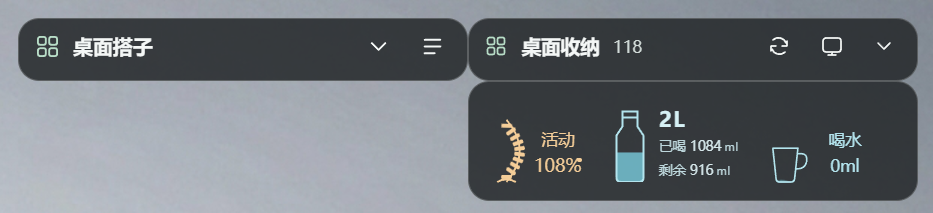
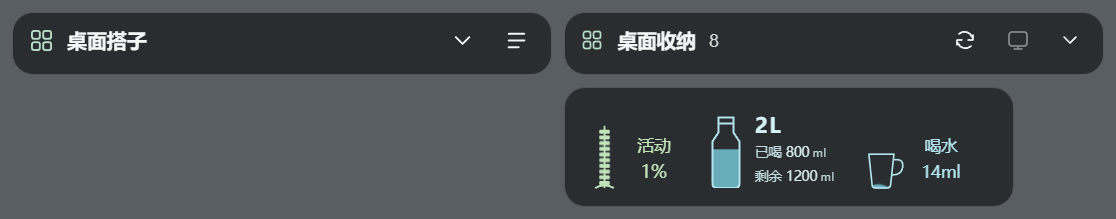
docs: recapture real homepage screenshots with demo data

diff --git a/README.md b/README.md
@@ -10,7 +10,7 @@
 
 ## 画面截图
 
-以下是 v2.8.8 的实际窗口截图，点击可查看原图。
+以下是 v2.8.8 使用公开演示资料实拍的窗口截图，点击可查看原图。收起布局由实际窗口截图拼合。
 
 <table>
   <tr>
